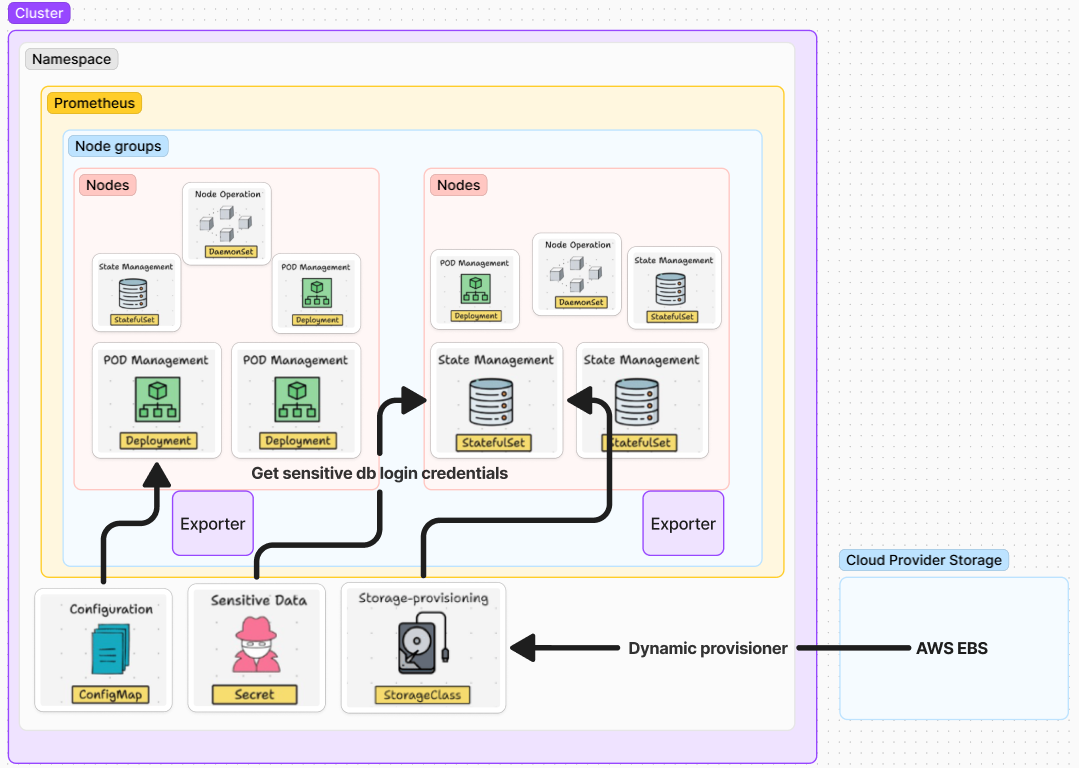
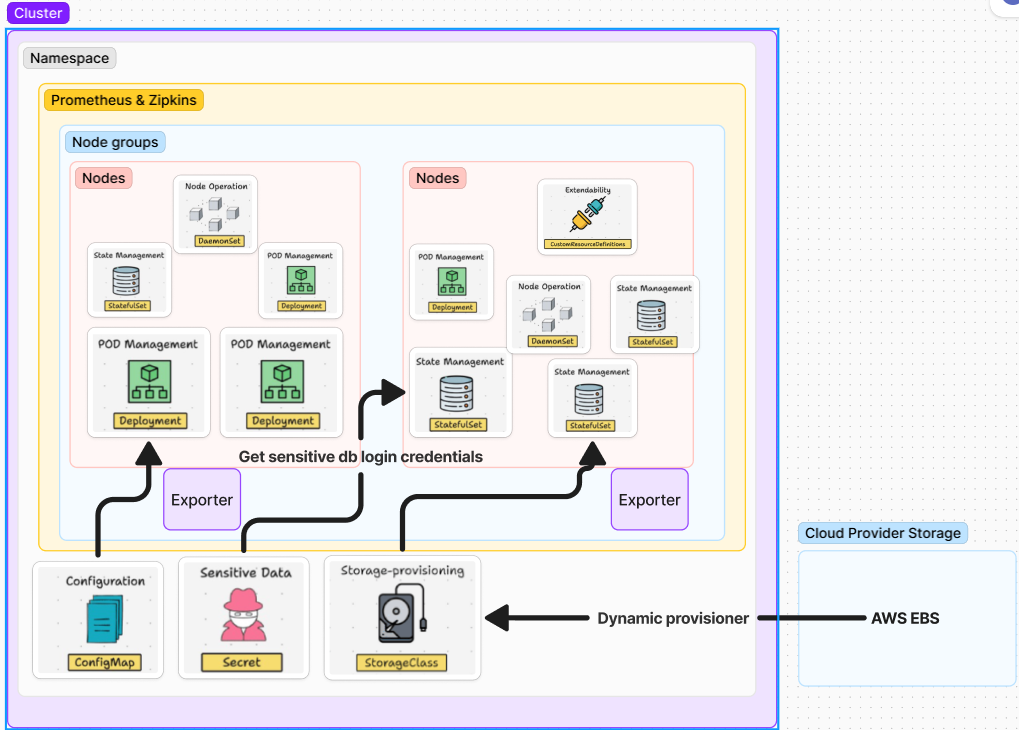
Updated README file's diagram.

Changed region(s): [[0.0, 0.0, 1.0, 1.0], [0.9735, 0.0, 1.0, 0.0301]]

diff --git a/README.md b/README.md
@@ -69,10 +69,10 @@ EventEase is a cutting-edge event booking system divided into two main component
 ![Monitoring and Logging Setup](./Architecture%20Diagram/Monitoring%20and%20Logging%20Setup.png)
 
 #### Database Synchronization Flow
-![Database Synchronization Flow](link_to_database_synchronization.png)
+![Database Synchronization Flow](./Architecture%20Diagram/Data%20Synchronization%20.png)
 
 #### Tracing Setup
-![Tracing Setup](link_to_tracing_setup.png)
+![Tracing Setup](./Architecture%20Diagram/Tracing.png)
 
 ### 1.3 Key Components
 - **Front-End**: Deployed using a Kubernetes Deployment with a LoadBalancer service for external access.
@@ -96,7 +96,7 @@ Step-by-step guide to setting up the development environment.
     - Follow the cluster setup steps provided by TA Mao Yancan.
     - **Note**: When creating the node groups, set the node instance type from `t3.medium` to `t3.large` to ensure enough pods can be created.
 2. **Step 2**: Install Helm.
-    - Follow the this [guide](https://helm.sh/docs/intro/install/) to install helm on Linux.
+    - Follow this [guide](https://helm.sh/docs/intro/install/) to install helm on Linux.
 
 ## 3. Application Deployment
 
@@ -115,8 +115,21 @@ Detailed steps to deploy the application.
     helm repo add grafana https://grafana.github.io/helm-charts
     helm repo update
     helm install prometheus prometheus-community/kube-prometheus-stack
-    cd k8s-manifests/loki-logging
+    cd loki-logging
     helm install --values loki-values.yaml loki grafana/loki-stack
+    cd ..
+
+    # Setup grafana loki so that it shares the same grafana dashboard with prometheus
+    # By adding datasource collected from loki and import it into grafana
+    kubectl port-forward deployment/prometheus-grafana 3000
+
+    # Now go to localhost:3000 and log in to grafana dashboard with the following credentials
+    # User: admin
+    # Password: prom-operator
+    # Then go under connections -> add new connection -> search for loki -> on the top right, press "add data source"
+    # Then under the connection field, find the URL box and paste http://loki:3100 as the url 
+    # then scroll down to press "Save & test" and you're done setting up the monitoring and logging service!
+
     ```
 2. **Step 2**: Deploy the microservices and front-end.
     ```bash
@@ -145,10 +158,10 @@ Detailed steps to deploy the application.
     kubectl apply -f ./frontend/deployment-frontend.yaml
     ```
 
-2. **Step 3**: Deploy exporter for microservices.
+3. **Step 3**: Deploy exporter for microservices.
     ```bash
-    helm install main-db-exporter prometheus-community/prometheus-postgres-exporter -f ./prometheus/main-db-values.yaml
-    helm install user-db-exporter prometheus-community/prometheus-postgres-exporter -f ./prometheus/user-db-values.yaml
-    helm install verify-db-exporter prometheus-community/prometheus-postgres-exporter -f ./prometheus/verify-db-values.yaml
-    helm install redis-exporter prometheus-community/prometheus-redis-exporter -f ./prometheus/redis-values.yaml
+    helm install main-db-exporter prometheus-community/prometheus-postgres-exporter -f ./prometheus-monitoring/main-db-values.yaml
+    helm install user-db-exporter prometheus-community/prometheus-postgres-exporter -f ./prometheus-monitoring/user-db-values.yaml
+    helm install verify-db-exporter prometheus-community/prometheus-postgres-exporter -f ./prometheus-monitoring/verify-db-values.yaml
+    helm install redis-exporter prometheus-community/prometheus-redis-exporter -f ./prometheus-monitoring/redis-values.yaml
     ```
